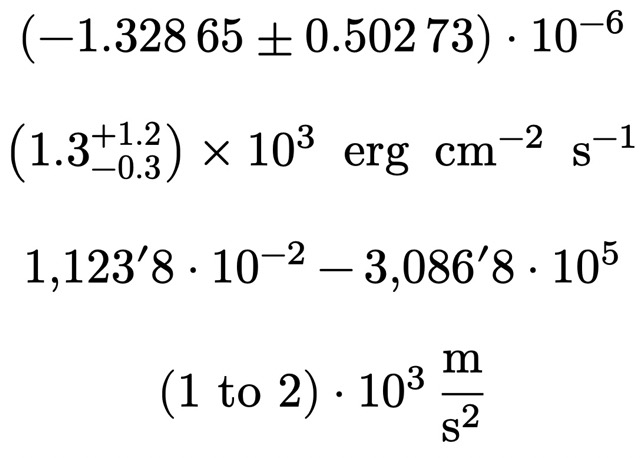
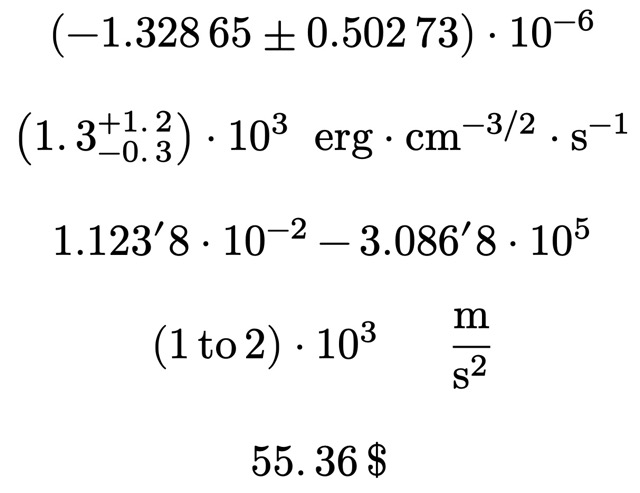
Update overview

diff --git a/TODO.md b/TODO.md
@@ -3,6 +3,4 @@
 - [x] unicode exponents
 - [x] raw units
 - [x] improve errors
-- [ ] fix short unit parsing where unit begins with a prefix
-    e.g. `dB` begins with the prefix `d` (deci), and luckily gets matched as decibyte, but this is not generally the case
-- [ ] update `overview.jpg`
+- [x] update `overview.jpg`
